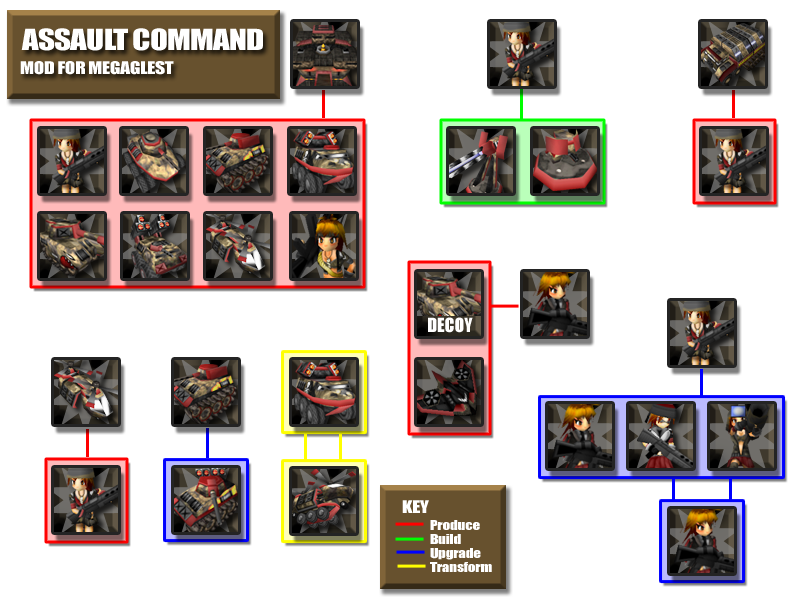
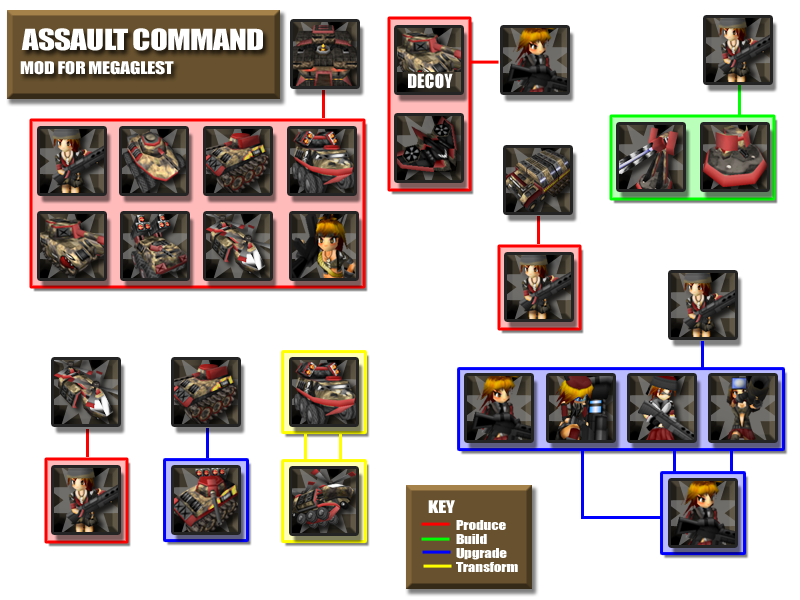
Up Date Readme and techtree.png

Changed region(s): [[0.4688, 0.0, 1.0, 1.0]]

diff --git a/README.md b/README.md
@@ -1,7 +1,7 @@
 # ASSAULT COMMAND MOD
 ###FOR MEGAGLEST
 
-### current version = 1.0
+### current version = 1.2
 
 ![alt text](https://raw.githubusercontent.com/Ishmaru/Assault-Command-Mod-for-MG/master/screen.jpg "Screenshot")
 
@@ -37,8 +37,7 @@ Unzip and Place assault_command into your .megaglest/techs data directory
 Start Megaglest and select Assault Command from the Techs option (in custom game menu) on lower right
 
 ###Known Issues:
-* Missing some sounds (Voice, EMP, Smoke Grenades, Helicopter,FX)
-* Good Blood Particle Fx
+* Missing some sounds (Voice, Helicopter,FX)
 * Unit documentation.
 
 ###Unit Build Tree:
@@ -89,3 +88,4 @@ CC-0 License
 * "Undercover Operative" <http://opengameart.org/content/undercover-operative>
 * "200% Production" <http://opengameart.org/content/200-production>
 * "Sentry" <http://opengameart.org/content/sentry>
+* "Grime of the City" <http://opengameart.org/content/grime-of-the-city>
